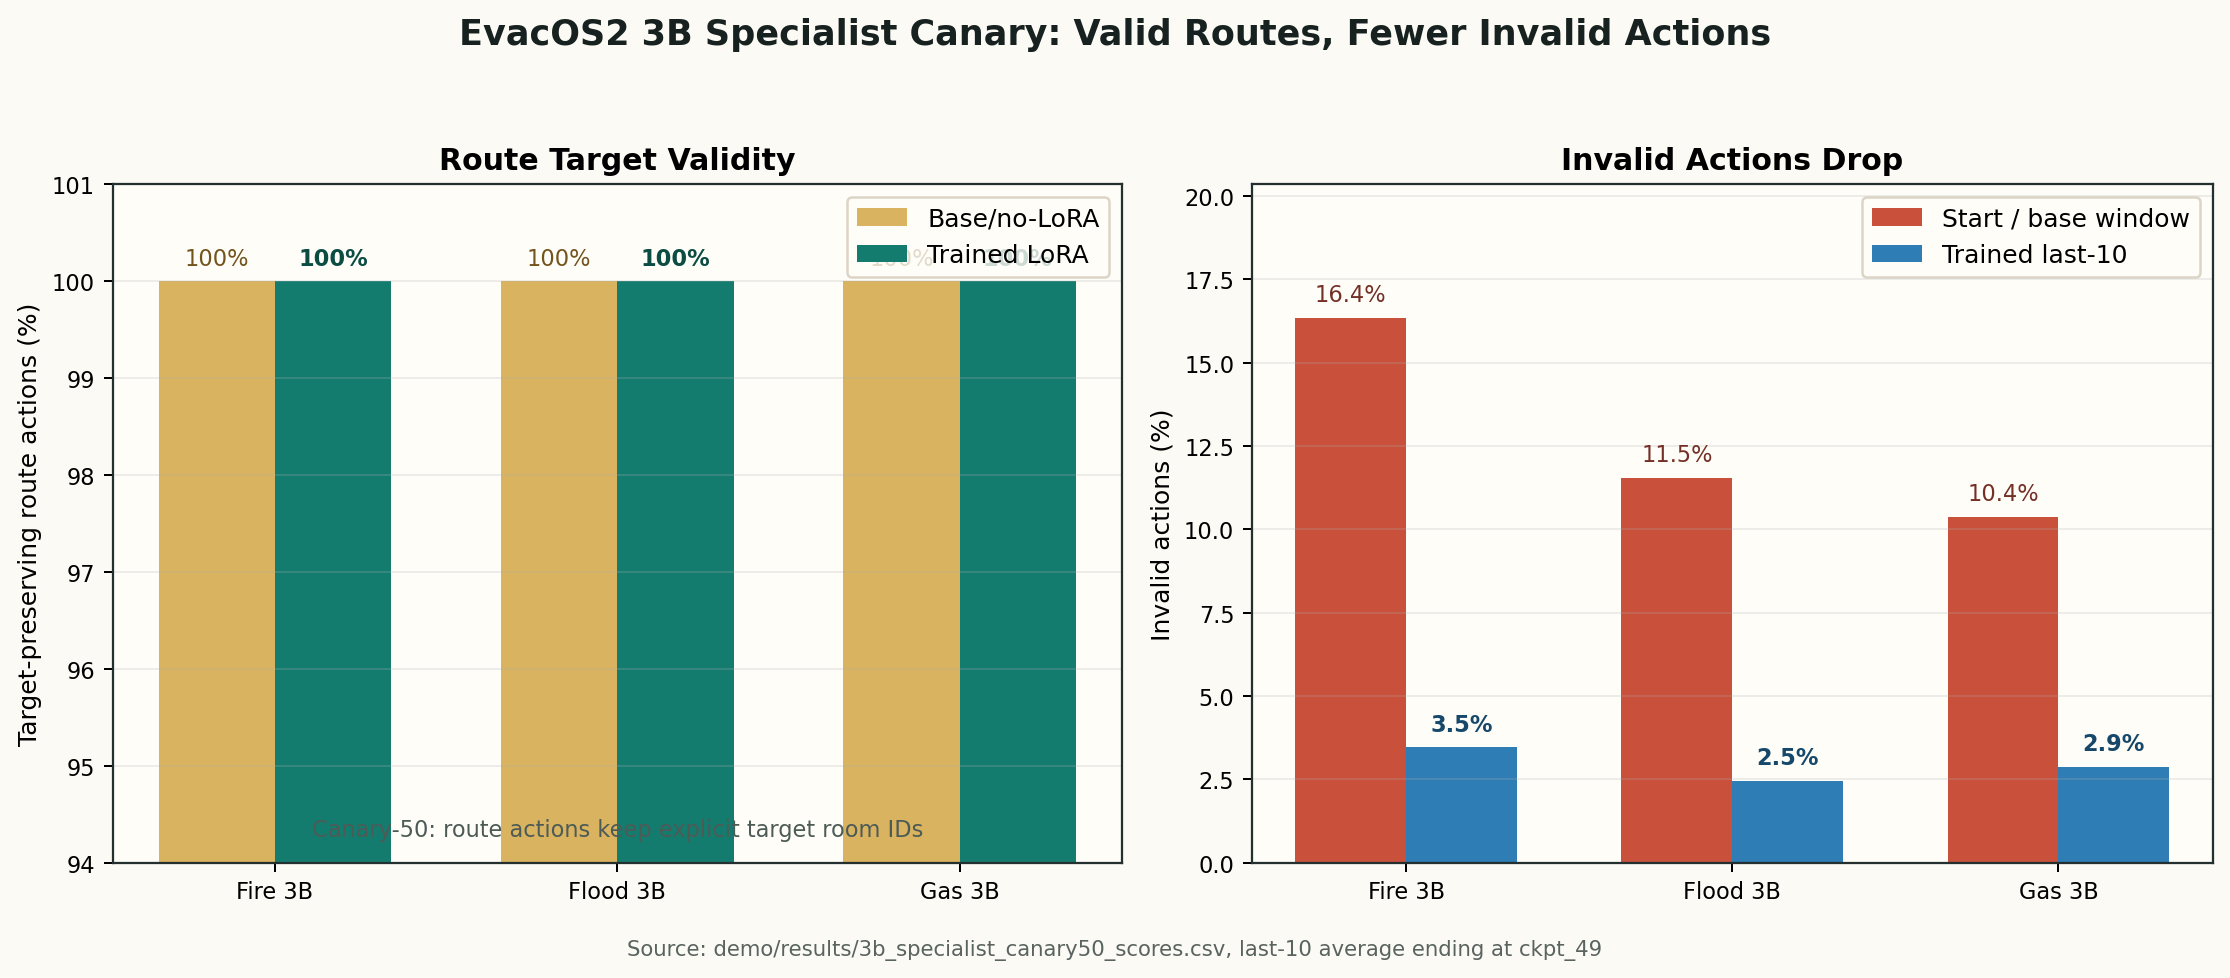
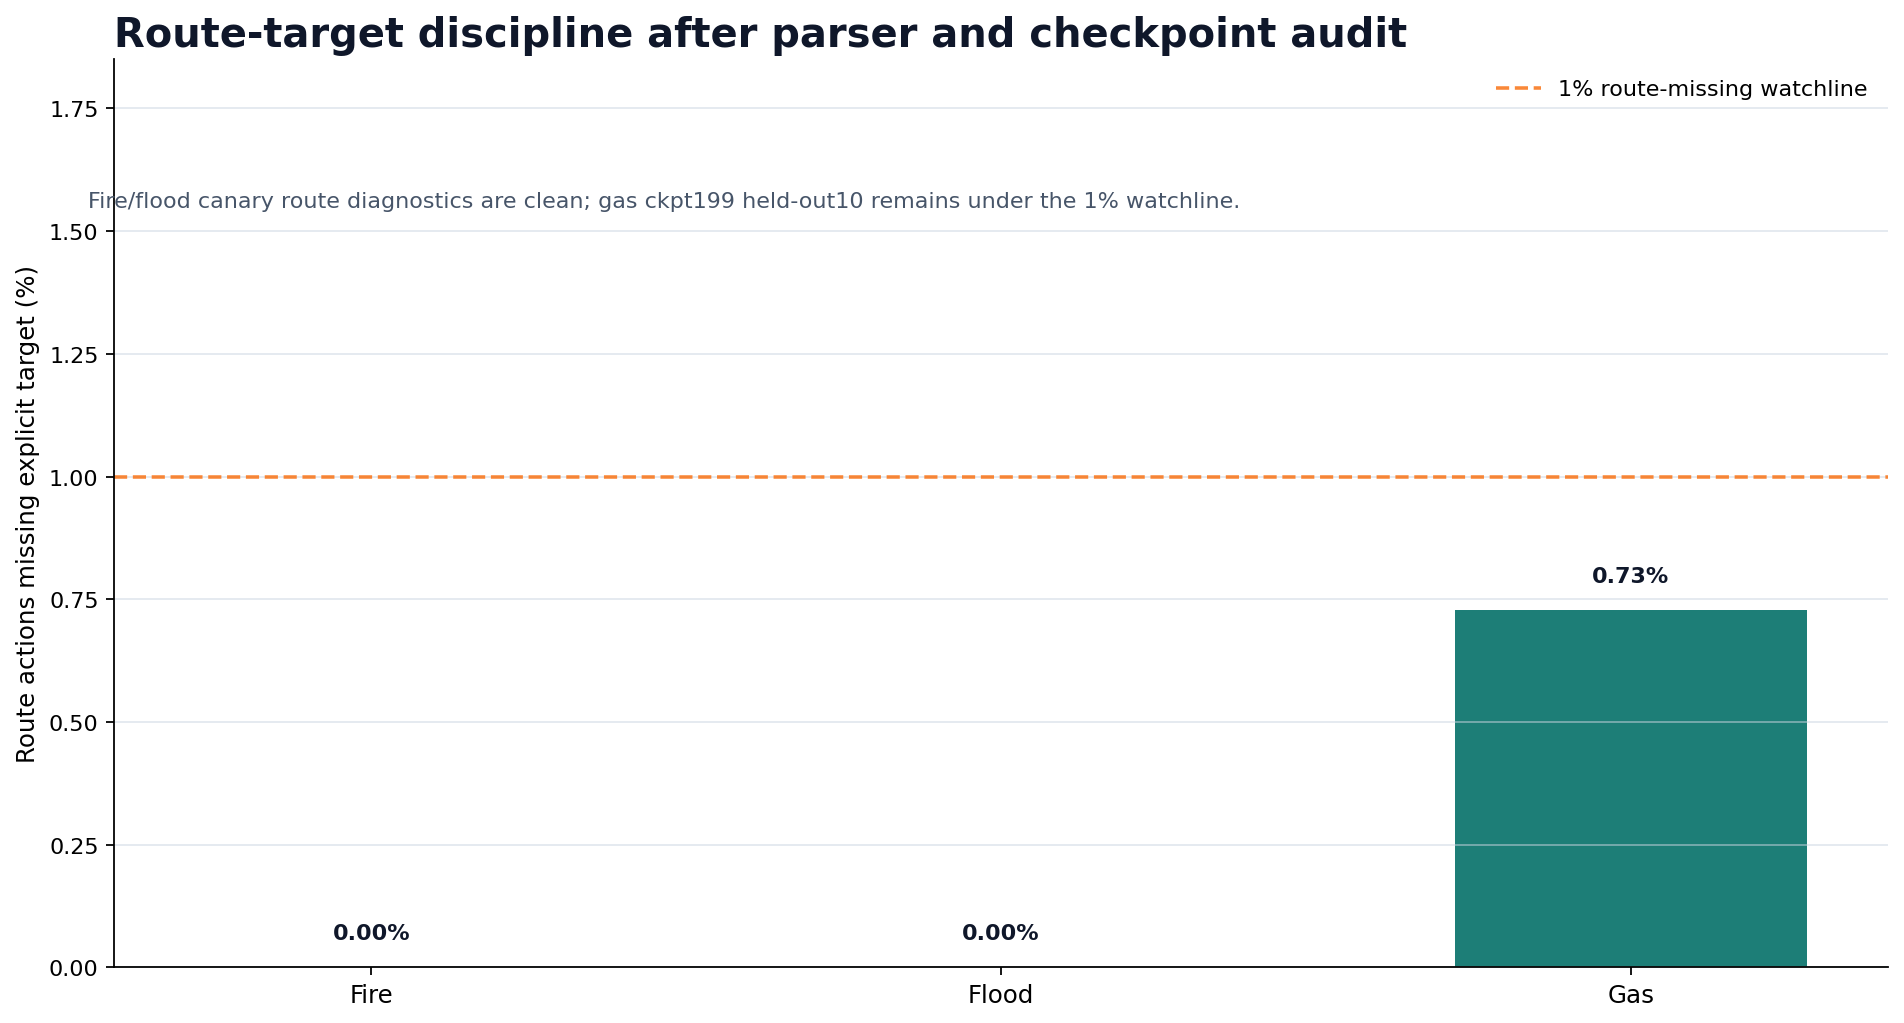
Refresh gas held-out evidence

diff --git a/README.md b/README.md
@@ -49,7 +49,7 @@ but also:
 | Public model/artifact repo | [shashankN777/evacos2-7b-orchestrator-artifacts](https://huggingface.co/shashankN777/evacos2-7b-orchestrator-artifacts) |
 | Source code on GitHub | [sai-shashankN/EvacOS2](https://github.com/sai-shashankN/EvacOS2) |
 
-**Evidence status:** the repo now includes a held-out `3B` specialist comparison: Qwen2.5-3B base/no-LoRA versus the trained LoRA specialists on the same unseen seeds, same evaluator, and same family-specific lanes. On this `30`-episode controlled proof slice, trained LoRA floor specialists improved the bounded eval score from `58.65%` to `80.45%` and reduced invalid actions from `39.18%` to `0.87%`. The base/no-LoRA model is intentionally non-trivial because EvacOS2 is an instruction-legible emergency benchmark, not an opaque puzzle; the learning claim is that training improves bounded score, contract reliability, and route-target discipline under the same evaluator. The scorecard also records raw save-rate overflow counts as an evaluator audit trail, so the safest headline is the invalid-action reduction plus bounded score movement rather than a claim of final convergence. The `7B` orchestrator remains smoke/training-signal validated rather than claimed as a converged held-out policy.
+**Evidence status:** the repo now includes a held-out `3B` specialist comparison: Qwen2.5-3B base/no-LoRA versus the trained LoRA specialists on the same unseen seeds, same evaluator, and same family-specific lanes. On this `30`-episode controlled proof slice, trained LoRA floor specialists improved the bounded eval score from `62.38%` to `80.05%` and reduced invalid actions from `34.47%` to `1.10%`. The base/no-LoRA model is intentionally non-trivial because EvacOS2 is an instruction-legible emergency benchmark, not an opaque puzzle; the learning claim is that training improves bounded score, contract reliability, and route-target discipline under the same evaluator. The scorecard also records raw save-rate overflow counts as an evaluator audit trail, so the safest headline is the invalid-action reduction plus bounded score movement rather than a claim of final convergence. The `7B` orchestrator remains smoke/training-signal validated rather than claimed as a converged held-out policy.
 
 **Benchmark scope note:** the submitted specialist proof lane uses a controlled fixed-suite slice so the public baseline-vs-trained comparison is deterministic, cheap enough to rerun, and easy to audit. The simulator and training stack are designed for broader curricula; expanding the same fixed-suite evaluator to higher-difficulty slices is future evaluation work, not a change to the environment architecture.
 
@@ -242,18 +242,20 @@ This is the clearest reward-improvement evidence: same held-out seeds, same fixe
 
 For submission clarity, this table is reported on the controlled specialist proof slice rather than the full simulator difficulty ceiling. That choice keeps the public result reproducible and directly comparable across base, checkpoint, and trained policies; harder benchmark slices are the next validation milestone using the same evaluator shape.
 
-Audit note: the score is bounded to `0-100%`, and the refreshed CSV also records raw save-rate overflow counts because some fire/gas traces can double-count saved civilians at the simulator-accounting layer. The safest headline is therefore the base/no-LoRA to trained LoRA invalid-action reduction, plus bounded score movement as a controlled proof-slice signal.
+Audit note: the score is bounded to `0-100%`, and the refreshed CSV also records raw save-rate overflow counts because some fire traces can double-count saved civilians at the simulator-accounting layer. The safest headline is therefore the base/no-LoRA to trained LoRA invalid-action reduction, plus bounded score movement as a controlled proof-slice signal.
 
-Headline: on a `30`-episode held-out specialist evaluation, trained LoRA floor specialists improved the base/no-LoRA Qwen2.5-3B bounded eval score from `58.65%` to `80.45%` (`+21.80 pp`), while cutting invalid actions from `39.18%` to `0.87%`.
+Headline: on a `30`-episode held-out specialist evaluation, trained LoRA floor specialists improved the base/no-LoRA Qwen2.5-3B bounded eval score from `62.38%` to `80.05%` (`+17.67 pp`), while cutting invalid actions from `34.47%` to `1.10%`.
 
 | Family | Held-out episodes | Base bounded score | Trained bounded score | Delta | Base invalid rate | Trained invalid rate | Raw save overflows |
 |---|---:|---:|---:|---:|---:|---:|---:|
 | Fire | `10` | `84.77%` | `96.64%` | `+11.87 pp` | `27.52%` | `2.60%` | `5/7` |
 | Flood | `10` | `22.95%` | `45.42%` | `+22.47 pp` | `47.67%` | `0.00%` | `0/0` |
-| Gas | `10` | `68.22%` | `99.28%` | `+31.06 pp` | `42.34%` | `0.00%` | `2/8` |
-| **Average** | `30 total` | **`58.65%`** | **`80.45%`** | **`+21.80 pp`** | **`39.18%`** | **`0.87%`** | **audit logged** |
+| Gas | `10` | `79.43%` | `98.09%` | `+18.67 pp` | `28.23%` | `0.69%` | `0/0` |
+| **Average** | `30 total` | **`62.38%`** | **`80.05%`** | **`+17.67 pp`** | **`34.47%`** | **`1.10%`** | **audit logged** |
 
-Public artifact path: `heldout/base-model-vs-h200-resume200-ckpt199-3b-heldout10-batched-20260429-094214` in [shashankN777/evacos2-7b-orchestrator-artifacts](https://huggingface.co/shashankN777/evacos2-7b-orchestrator-artifacts).
+Gas route-target refresh: the public `gas/h200-resume200-ckpt199` adapter was re-evaluated on the same `10` held-out seeds after the route audit. It scored `98.09%`, cut invalid actions from `28.23%` to `0.69%`, and kept route-missing-targets to `0.73%`. The uploaded artifact path is `heldout/vast-gas-ckpt199-heldout10-f3ad625-20260430T202253Z` in `shashankN777/evacos2-7b-orchestrator-artifacts`.
+
+Public artifact paths in [shashankN777/evacos2-7b-orchestrator-artifacts](https://huggingface.co/shashankN777/evacos2-7b-orchestrator-artifacts): the original fire/flood/gas held-out bundle is `heldout/base-model-vs-h200-resume200-ckpt199-3b-heldout10-batched-20260429-094214`, and the refreshed gas route audit is `heldout/vast-gas-ckpt199-heldout10-f3ad625-20260430T202253Z`.
 
 ![Held-out 3B base-vs-trained eval score](demo/results/plots/heldout_3b_base_vs_trained_eval_score.png)
 

diff --git a/Blog.MD b/Blog.MD
@@ -153,18 +153,20 @@ The cleanest reward-improvement evidence is now a held-out `3B` specialist compa
 
 This is intentionally framed as a controlled proof lane, not the full ceiling of the simulator. For judges, the goal is a clean scientific slice: same seeds, same evaluator, same task families, base model versus trained adapter. The simulator and curriculum can be extended to harder slices, but the submitted public table focuses on the benchmark slice we can make reproducible and inspectable end to end.
 
-The headline is the part that matters: on a `30`-episode held-out specialist evaluation, trained LoRA floor specialists improved the base/no-LoRA Qwen2.5-3B bounded eval score from `58.65%` to `80.45%` (`+21.80 pp`), while cutting invalid actions from `39.18%` to `0.87%`. The base model is not meant to be helpless: EvacOS2 is deliberately instruction-legible because emergency interfaces should be clear. The learning signal is that training makes the same model more reliable under the same contract.
+The headline is the part that matters: on a `30`-episode held-out specialist evaluation, trained LoRA floor specialists improved the base/no-LoRA Qwen2.5-3B bounded eval score from `62.38%` to `80.05%` (`+17.67 pp`), while cutting invalid actions from `34.47%` to `1.10%`. The base model is not meant to be helpless: EvacOS2 is deliberately instruction-legible because emergency interfaces should be clear. The learning signal is that training makes the same model more reliable under the same contract.
 
-One audit detail is worth making explicit because this is a simulator, not a static worksheet: the scorecard records raw save-rate overflow counts for fire/gas traces where the simulator-accounting layer can double-count saved civilians. The public eval score is still bounded to `0-100%`, but the cleanest learning signal is the invalid-action reduction plus the bounded score movement, not a claim that this is a final converged policy.
+One audit detail is worth making explicit because this is a simulator, not a static worksheet: the scorecard records raw save-rate overflow counts for fire traces where the simulator-accounting layer can double-count saved civilians. The public eval score is still bounded to `0-100%`, but the cleanest learning signal is the invalid-action reduction plus the bounded score movement, not a claim that this is a final converged policy.
 
 | Family | Held-out episodes | Base bounded score | Trained bounded score | Delta | Base invalid rate | Trained invalid rate | Raw save overflows |
 |---|---:|---:|---:|---:|---:|---:|---:|
 | Fire | `10` | `84.77%` | `96.64%` | `+11.87 pp` | `27.52%` | `2.60%` | `5/7` |
 | Flood | `10` | `22.95%` | `45.42%` | `+22.47 pp` | `47.67%` | `0.00%` | `0/0` |
-| Gas | `10` | `68.22%` | `99.28%` | `+31.06 pp` | `42.34%` | `0.00%` | `2/8` |
-| **Average** | `30 total` | **`58.65%`** | **`80.45%`** | **`+21.80 pp`** | **`39.18%`** | **`0.87%`** | **audit logged** |
+| Gas | `10` | `79.43%` | `98.09%` | `+18.67 pp` | `28.23%` | `0.69%` | `0/0` |
+| **Average** | `30 total` | **`62.38%`** | **`80.05%`** | **`+17.67 pp`** | **`34.47%`** | **`1.10%`** | **audit logged** |
 
-The public artifact path is `heldout/base-model-vs-h200-resume200-ckpt199-3b-heldout10-batched-20260429-094214` in [shashankN777/evacos2-7b-orchestrator-artifacts](https://huggingface.co/shashankN777/evacos2-7b-orchestrator-artifacts). This run is intentionally labeled as a fast `10`-seed held-out comparison; the same evaluator path supports larger seed counts.
+The gas row was refreshed after the route-target audit using the public `gas/h200-resume200-ckpt199` adapter on the same `10` held-out seeds. That run is uploaded under `heldout/vast-gas-ckpt199-heldout10-f3ad625-20260430T202253Z` and records `0.73%` route-missing-targets, so the previous gas ambiguity is now a documented diagnostic rather than the headline.
+
+The public artifact paths are `heldout/base-model-vs-h200-resume200-ckpt199-3b-heldout10-batched-20260429-094214` and the refreshed gas route audit `heldout/vast-gas-ckpt199-heldout10-f3ad625-20260430T202253Z` in [shashankN777/evacos2-7b-orchestrator-artifacts](https://huggingface.co/shashankN777/evacos2-7b-orchestrator-artifacts). These runs are intentionally labeled as fast `10`-seed held-out comparisons; the same evaluator path supports larger seed counts.
 
 ![Held-out 3B base-vs-trained eval score](demo/results/plots/heldout_3b_base_vs_trained_eval_score.png)
 

diff --git a/SUBMISSION_BRIEF.md b/SUBMISSION_BRIEF.md
@@ -2,7 +2,7 @@
 
 EvacOS2 is a multi-agent evacuation RL environment where one orchestrator and multiple floor agents must coordinate people movement, exits, overrides, and hazard response inside a deterministic simulator.
 
-Evidence status: the repo now includes a held-out `3B` specialist comparison: Qwen2.5-3B base/no-LoRA versus trained LoRA specialists on the same unseen seeds and evaluator. On this `30`-episode controlled proof slice, trained LoRA floor specialists improved the bounded eval score from `58.65%` to `80.45%` and reduced invalid actions from `39.18%` to `0.87%`. A non-trivial base score is expected because EvacOS2 is an instruction-legible emergency benchmark; the learning claim is improved bounded score, invalid-action reduction, and stricter route-target discipline under the same evaluator. The scorecard also includes raw save-rate overflow audit columns for fire/gas simulator-accounting traces, so the safest claim is invalid-action reduction plus bounded score movement rather than final convergence. The `7B` orchestrator remains smoke/training-signal validated rather than claimed as a converged held-out policy.
+Evidence status: the repo now includes a held-out `3B` specialist comparison: Qwen2.5-3B base/no-LoRA versus trained LoRA specialists on the same unseen seeds and evaluator. On this `30`-episode controlled proof slice, trained LoRA floor specialists improved the bounded eval score from `62.38%` to `80.05%` and reduced invalid actions from `34.47%` to `1.10%`. A non-trivial base score is expected because EvacOS2 is an instruction-legible emergency benchmark; the learning claim is improved bounded score, invalid-action reduction, and stricter route-target discipline under the same evaluator. The scorecard also includes raw save-rate overflow audit columns for simulator-accounting traces, so the safest claim is invalid-action reduction plus bounded score movement rather than final convergence. The `7B` orchestrator remains smoke/training-signal validated rather than claimed as a converged held-out policy.
 
 Benchmark scope: the submitted fixed-suite specialist comparison is a controlled proof slice. That keeps the baseline-vs-trained result deterministic, judge-runnable, and directly auditable. The simulator and training configs are built for broader curricula; higher-difficulty scorecards are the next evaluation milestone after the submitted slice.
 
@@ -82,14 +82,14 @@ python -m evaluation.demo_bundle \
 
 ## Held-out base-vs-trained headline
 
-On a `30`-episode held-out specialist evaluation, trained LoRA floor specialists improved the base/no-LoRA Qwen2.5-3B bounded eval score by `+21.80 pp` and cut invalid actions from `39.18%` to `0.87%` across fire, flood, and gas response lanes. The canary route diagnostics also show `1.0000` route-action averages and `0.0000` missing-target averages across all three specialist lanes. The CSV includes raw save-rate overflow audit columns; use invalid-action reduction and route-contract reliability as the cleanest learning headline.
+On a `30`-episode held-out specialist evaluation, trained LoRA floor specialists improved the base/no-LoRA Qwen2.5-3B bounded eval score by `+17.67 pp` and cut invalid actions from `34.47%` to `1.10%` across fire, flood, and gas response lanes. The canary route diagnostics also show `1.0000` route-action averages and `0.0000` missing-target averages across all three specialist lanes. The refreshed gas held-out audit records `0.73%` route-missing-targets on the stricter `10`-seed slice. Use invalid-action reduction and route-contract reliability as the cleanest learning headline.
 
 | Family | Episodes | Base bounded score | Trained bounded score | Delta | Base invalid | Trained invalid | Raw save overflows |
 |---|---:|---:|---:|---:|---:|---:|---:|
 | Fire | `10` | `84.77%` | `96.64%` | `+11.87 pp` | `27.52%` | `2.60%` | `5/7` |
 | Flood | `10` | `22.95%` | `45.42%` | `+22.47 pp` | `47.67%` | `0.00%` | `0/0` |
-| Gas | `10` | `68.22%` | `99.28%` | `+31.06 pp` | `42.34%` | `0.00%` | `2/8` |
-| **Average** | `30 total` | **`58.65%`** | **`80.45%`** | **`+21.80 pp`** | **`39.18%`** | **`0.87%`** | **audit logged** |
+| Gas | `10` | `79.43%` | `98.09%` | `+18.67 pp` | `28.23%` | `0.69%` | `0/0` |
+| **Average** | `30 total` | **`62.38%`** | **`80.05%`** | **`+17.67 pp`** | **`34.47%`** | **`1.10%`** | **audit logged** |
 
 ## Core competitive claims
 

diff --git a/demo/results/heldout_3b_base_vs_trained_summary.md b/demo/results/heldout_3b_base_vs_trained_summary.md
@@ -1,19 +1,19 @@
 # Held-Out 3B Specialist Eval: ckpt_199 Base Model vs Trained LoRA
 
-Same held-out seeds `9101-9110`, same evaluator, same family-specific controlled proof lane. Baseline is `Qwen/Qwen2.5-3B-Instruct` with no LoRA adapter; trained policies are fire/flood/gas H200 resume200 `ckpt_199` LoRA specialists.
+Same held-out seeds `9101-9110`, same evaluator, same family-specific controlled proof lane. Baseline is `Qwen/Qwen2.5-3B-Instruct` with no LoRA adapter; trained policies are fire/flood/gas H200 resume200 `ckpt_199` LoRA specialists. The gas row was refreshed on Vast after the route-target audit to use the public `gas/h200-resume200-ckpt199` adapter and uploaded to `heldout/vast-gas-ckpt199-heldout10-f3ad625-20260430T202253Z`.
 
 The base/no-LoRA policy is intentionally non-trivial because EvacOS2 exposes clear emergency observations and action contracts. The judge-facing claim is therefore not that the base model is helpless; it is that LoRA training improves bounded score and contract reliability under the same unseen seeds, same evaluator, and same route/action parser.
 
-Audit note: the fixed-suite score is bounded to `0-100%`, but this refresh also records raw save-rate overflow counts because some fire/gas traces double-count saved civilians at the simulator-accounting layer. For judging, the most robust headline is therefore the base/no-LoRA to trained LoRA invalid-action reduction, plus the bounded score as an audited proof-slice signal rather than a claim of final convergence.
+Audit note: the fixed-suite score is bounded to `0-100%`, but this refresh also records raw save-rate overflow counts because some fire traces double-count saved civilians at the simulator-accounting layer. For judging, the most robust headline is therefore the base/no-LoRA to trained LoRA invalid-action reduction, plus the bounded score as an audited proof-slice signal rather than a claim of final convergence.
 
-Headline: average bounded eval score `58.65% -> 80.45%` (`+21.80 pp`); invalid actions `39.18% -> 0.87%` (`-38.31 pp`).
+Headline: average bounded eval score `62.38% -> 80.05%` (`+17.67 pp`); invalid actions `34.47% -> 1.10%` (`-33.37 pp`).
 
 | Family | Episodes | Base bounded score | Trained bounded score | Delta | Base invalid | Trained invalid | Capped save-rate delta | Raw save overflows |
 |---|---:|---:|---:|---:|---:|---:|---:|---:|
 | fire | 10 | 84.77% | 96.64% | +11.87 pp | 27.52% | 2.60% | -0.0030 | 5/7 |
 | flood | 10 | 22.95% | 45.42% | +22.47 pp | 47.67% | 0.00% | +0.1876 | 0/0 |
-| gas | 10 | 68.22% | 99.28% | +31.06 pp | 42.34% | 0.00% | +0.1345 | 2/8 |
-| **Average** | **30 total** | **58.65%** | **80.45%** | **+21.80 pp** | **39.18%** | **0.87%** | **+0.1064** | **audit logged** |
+| gas | 10 | 79.43% | 98.09% | +18.67 pp | 28.23% | 0.69% | +0.0668 | 0/0 |
+| **Average** | **30 total** | **62.38%** | **80.05%** | **+17.67 pp** | **34.47%** | **1.10%** | **+0.0838** | **audit logged** |
 
-Route-target discipline is tracked separately in the canary scorecard: fire/flood/gas `3B` specialists all record `1.0000` route-action averages and `0.0000` missing-target averages in [3b_specialist_canary50_scores.csv](3b_specialist_canary50_scores.csv).
+Route-target discipline is tracked separately in the canary scorecard: fire/flood/gas `3B` specialists all record `1.0000` route-action averages and `0.0000` missing-target averages in [3b_specialist_canary50_scores.csv](3b_specialist_canary50_scores.csv). The refreshed gas held-out audit records a low `0.73%` route-missing-target rate on the stricter 10-seed held-out slice.
 
